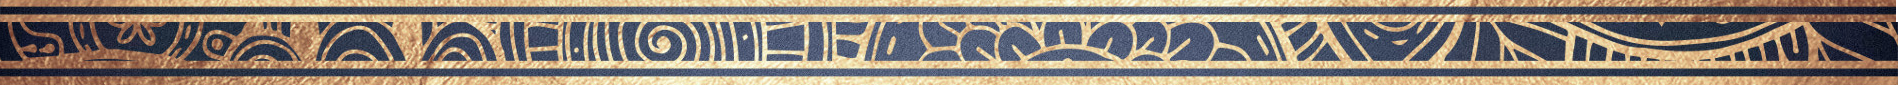
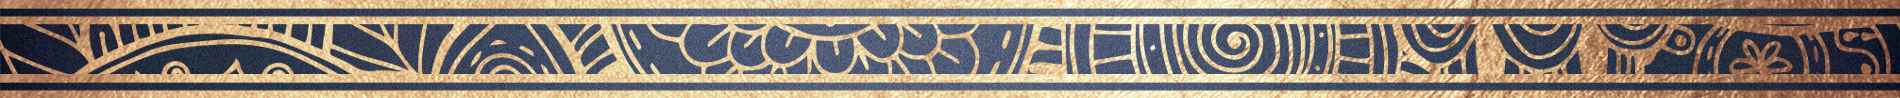
Фон и разделители
Добавил фон из фирменного стиля. Исправил разделители.

diff --git a/css/style.css b/css/style.css
@@ -49,18 +49,16 @@ h6 {
 }
 
 .intro-footer {
-    padding-top: 50px;
-    padding-bottom: 50px;
-    text-align: center;
-    color: #f8f8f8;
+    height: 100px;
     background: url(../img/footer-bg.jpg) no-repeat;
     background-size: cover;
 }
 
-.intro-md {
-	height: 85px;    
-    background: url(../img/footer-bg-md.jpg) no-repeat;
+.intro-md {	    
+    background: url(../img/footer-bg.jpg) no-repeat;
     background-size: cover;
+    height: 80px;
+    border-bottom: 2px solid rgb(209,163,114);
 }
 
 .intro-message {
@@ -134,15 +132,21 @@ h6 {
 }
 
 .content-section-a-b {
-    padding: 50px 0;
+    padding-top: 50px;
+    padding-bottom: 50px;
     background-color: rgb(86,105,143);
     color: #f8f8f8;
+    background: url(../img/intro-bg.jpg) no-repeat center center;
+    background-size: cover;
 }
 
 .content-section-b-b {
-    padding: 50px 0;     
+    padding-top: 50px;
+    padding-bottom: 50px;         
     background-color: rgb(86,105,143);
-    color: #f8f8f8; 
+    color: #f8f8f8;
+    background: url(../img/intro-bg.jpg) no-repeat center center;
+    background-size: cover;
 }
 
 .content-section-b-b a {
